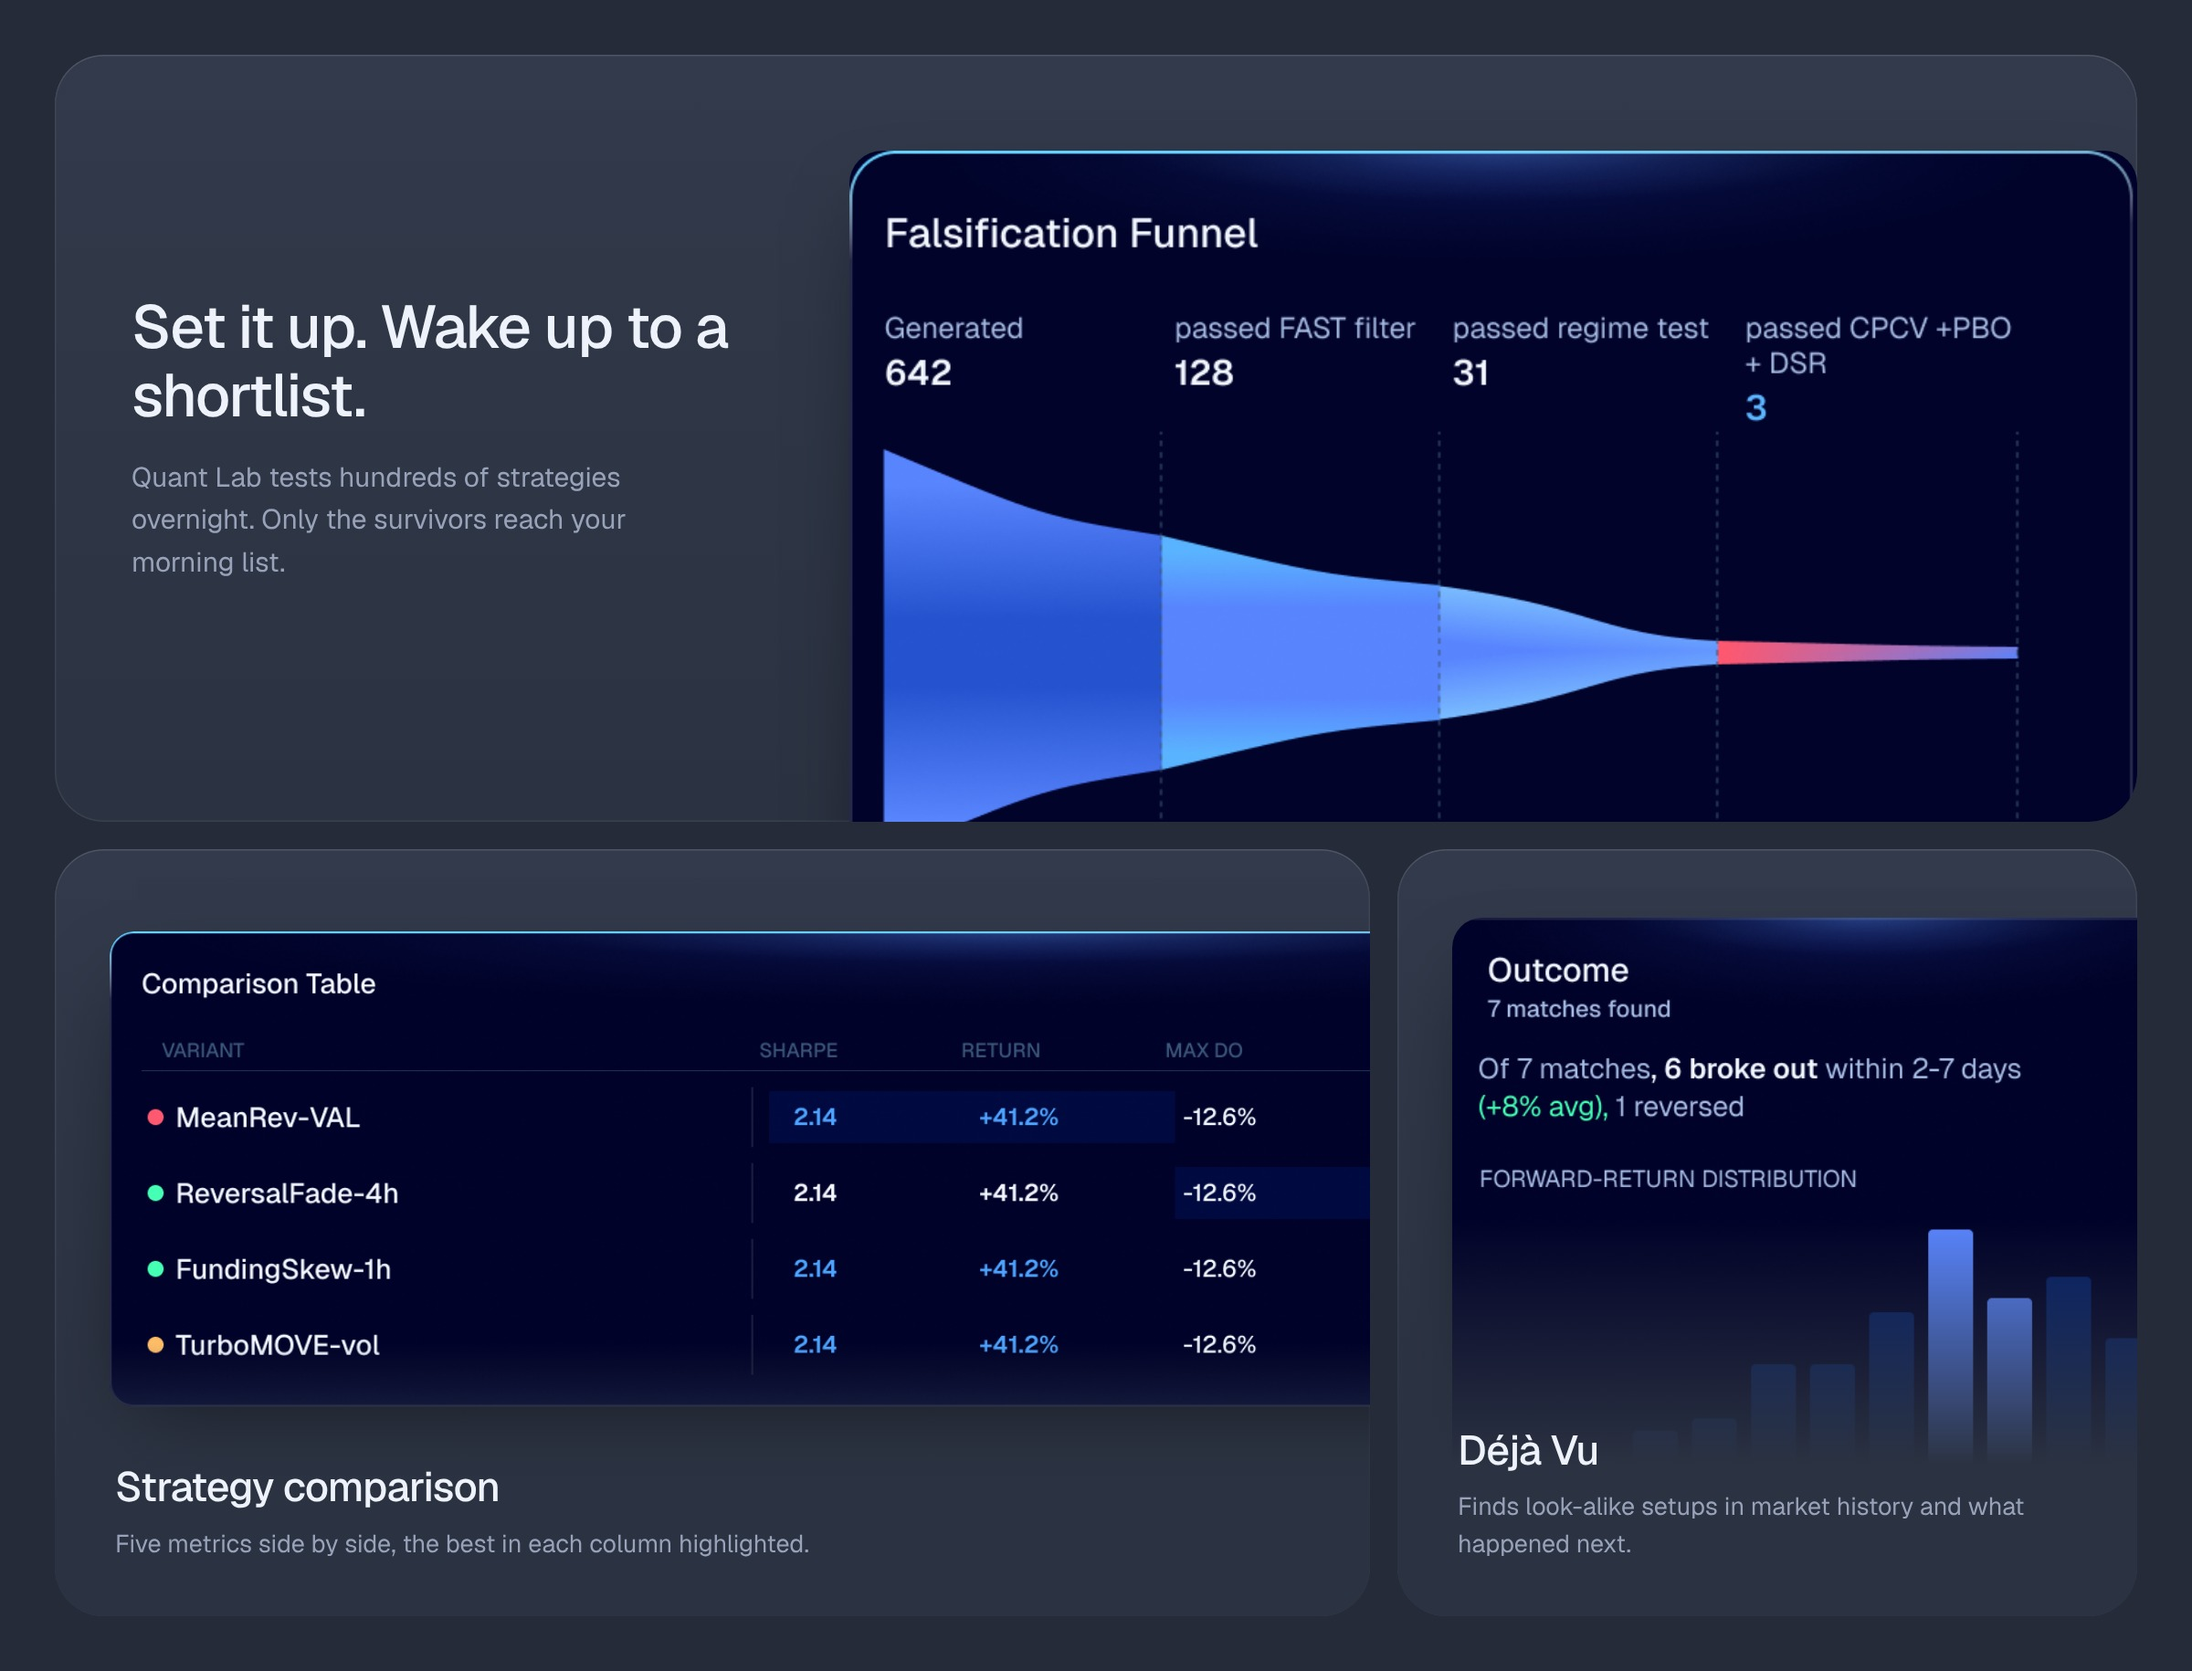
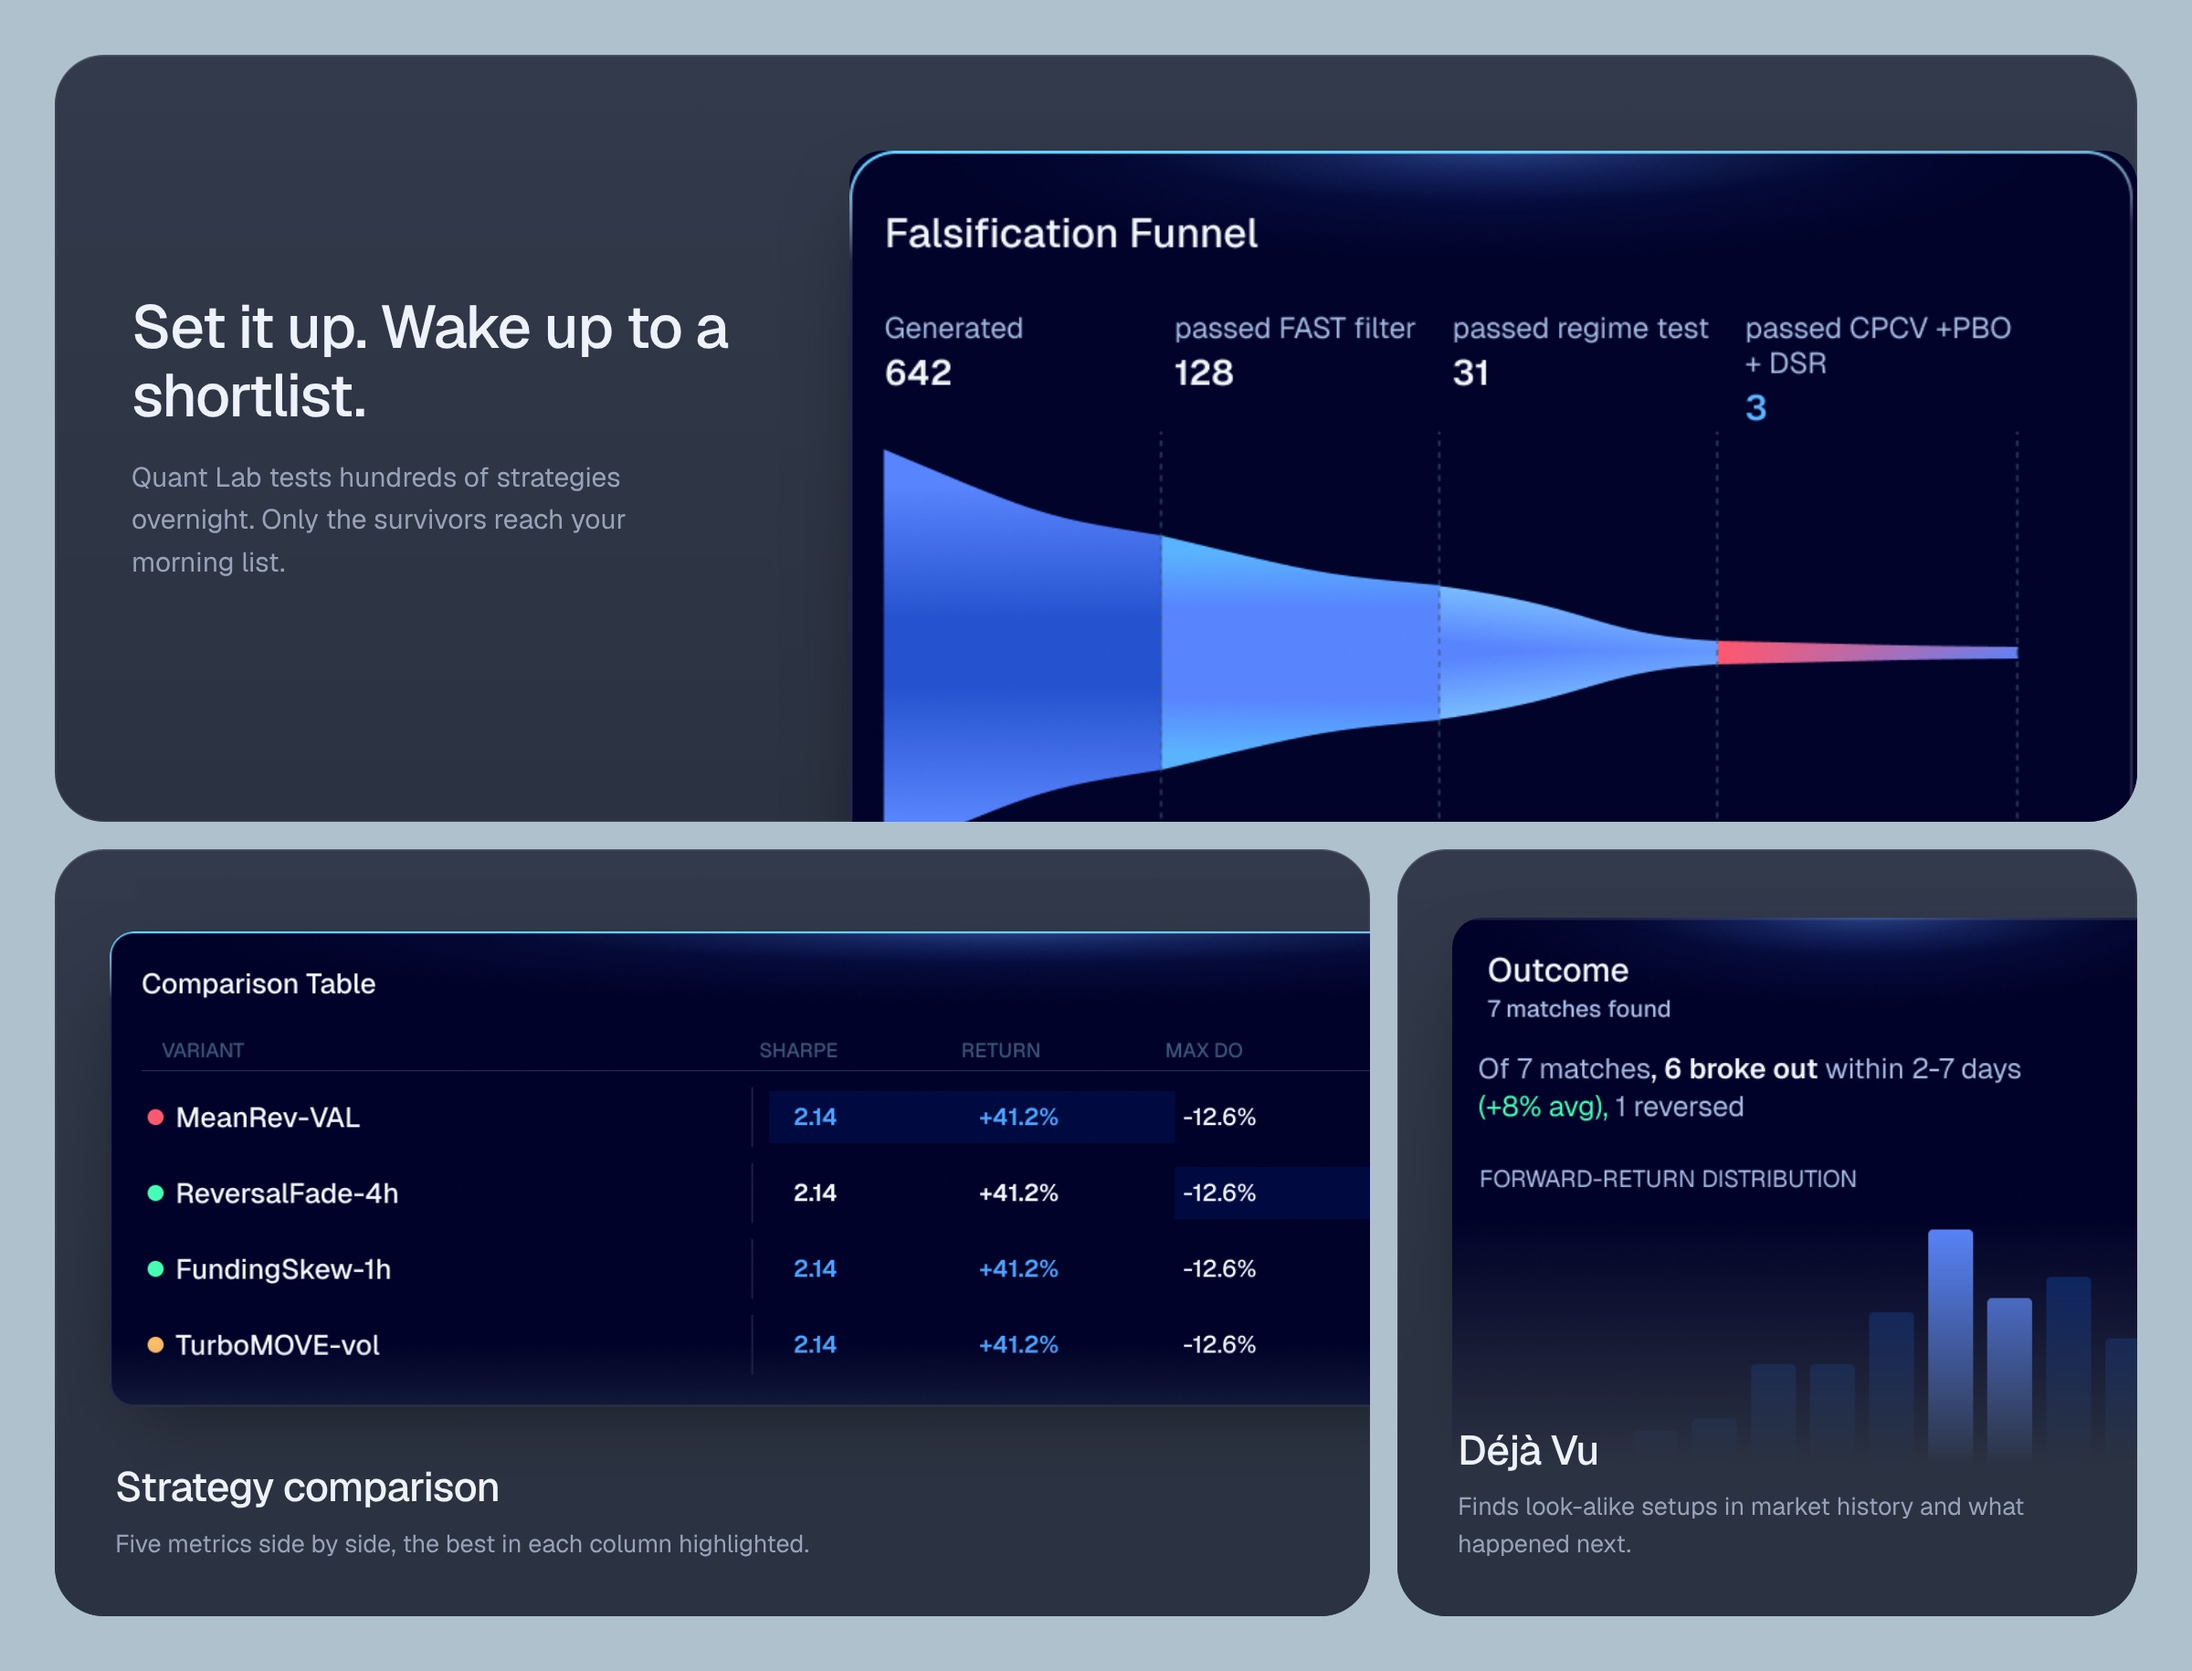
Jaadu bento: #B0C1CE ground
Claude-Session: https://claude.ai/code/session_01L48ecgvWMXiCwrAdC3aGTG

Changed region(s): [[0.0, 0.0, 1.0, 1.0]]

diff --git a/scripts/mockups/jaadu/bento.html b/scripts/mockups/jaadu/bento.html
@@ -3,7 +3,7 @@
 @font-face{font-family:Geist;font-weight:400;src:url(node_modules/@fontsource/geist/files/geist-latin-400-normal.woff2)}
 @font-face{font-family:Geist;font-weight:500;src:url(node_modules/@fontsource/geist/files/geist-latin-500-normal.woff2)}
 body{margin:0;background:#fff}
-.pg{position:relative;width:1600px;overflow:hidden;margin:0 0 60px;background:#252B38;font-family:Geist,sans-serif}
+.pg{position:relative;width:1600px;overflow:hidden;margin:0 0 60px;background:#B0C1CE;font-family:Geist,sans-serif}
 .t{position:absolute;overflow:hidden;border-radius:36px;background:linear-gradient(180deg,#323A4B,#2B3241);box-shadow:inset 0 0 0 1px rgba(255,255,255,.07),inset 0 1px 0 rgba(255,255,255,.08)}
 .t .cap{position:absolute;left:44px;right:44px;bottom:40px;z-index:4}
 .t .cap h3{margin:0;font:500 30px/1.15 Geist;color:#EEF2FA;letter-spacing:-.02em}
